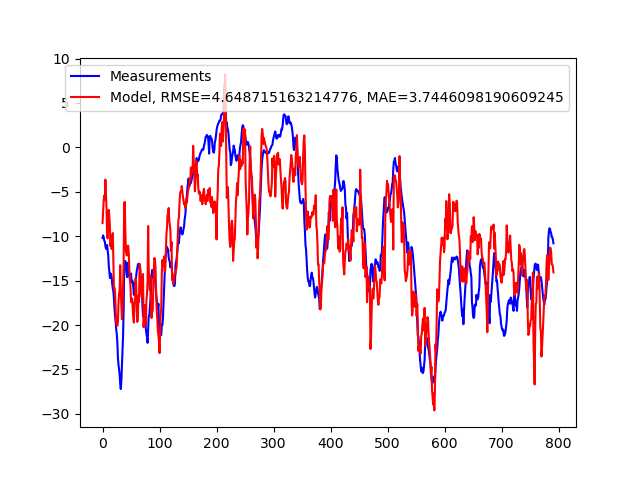
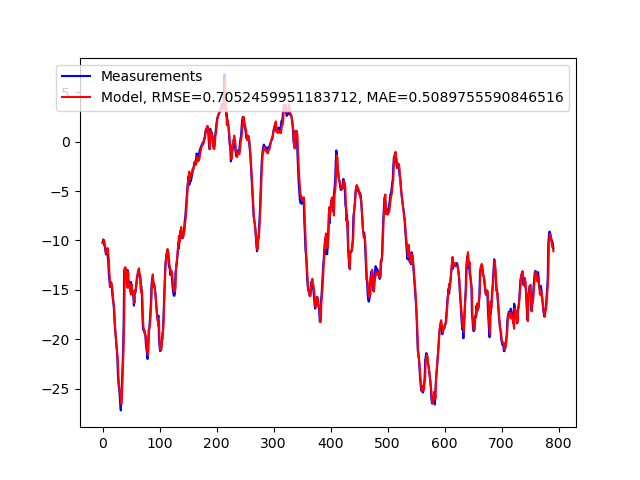
add lag 1 on T

diff --git a/code/project_paul.py b/code/project_paul.py
@@ -153,6 +153,9 @@ if __name__ == "__main__":
     print(df_control.shape)
 
     y = np.asarray(df_train['T'])
+    df_train = add_lags(df_train, 'T', [1])
+    df_train['T_lag1'][0] = df_train['T'][0]
+    print(df_train)
     params = np.asarray(df_train[df_train.columns.drop('T')])
 
     print(y)
